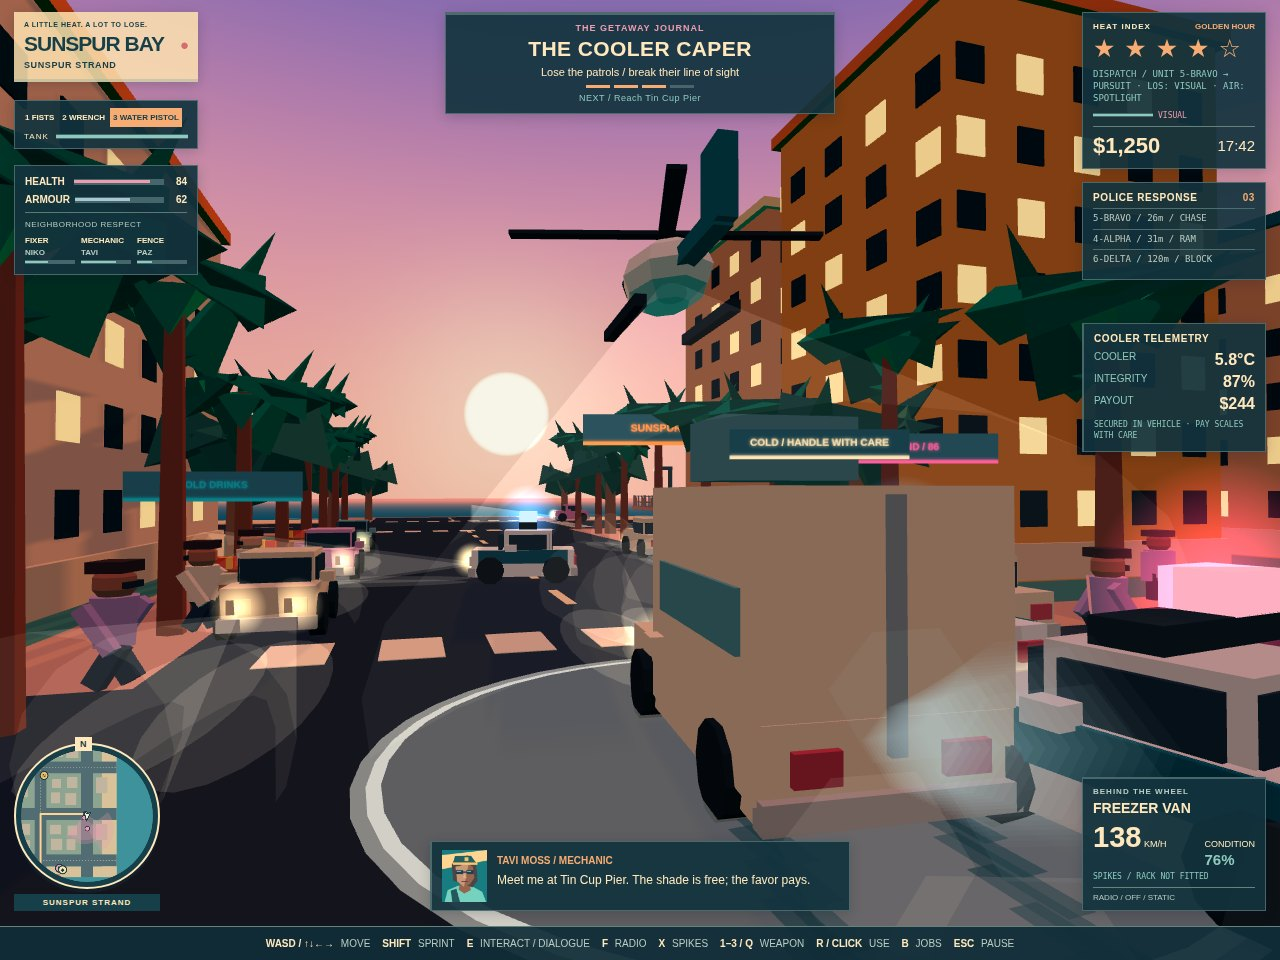
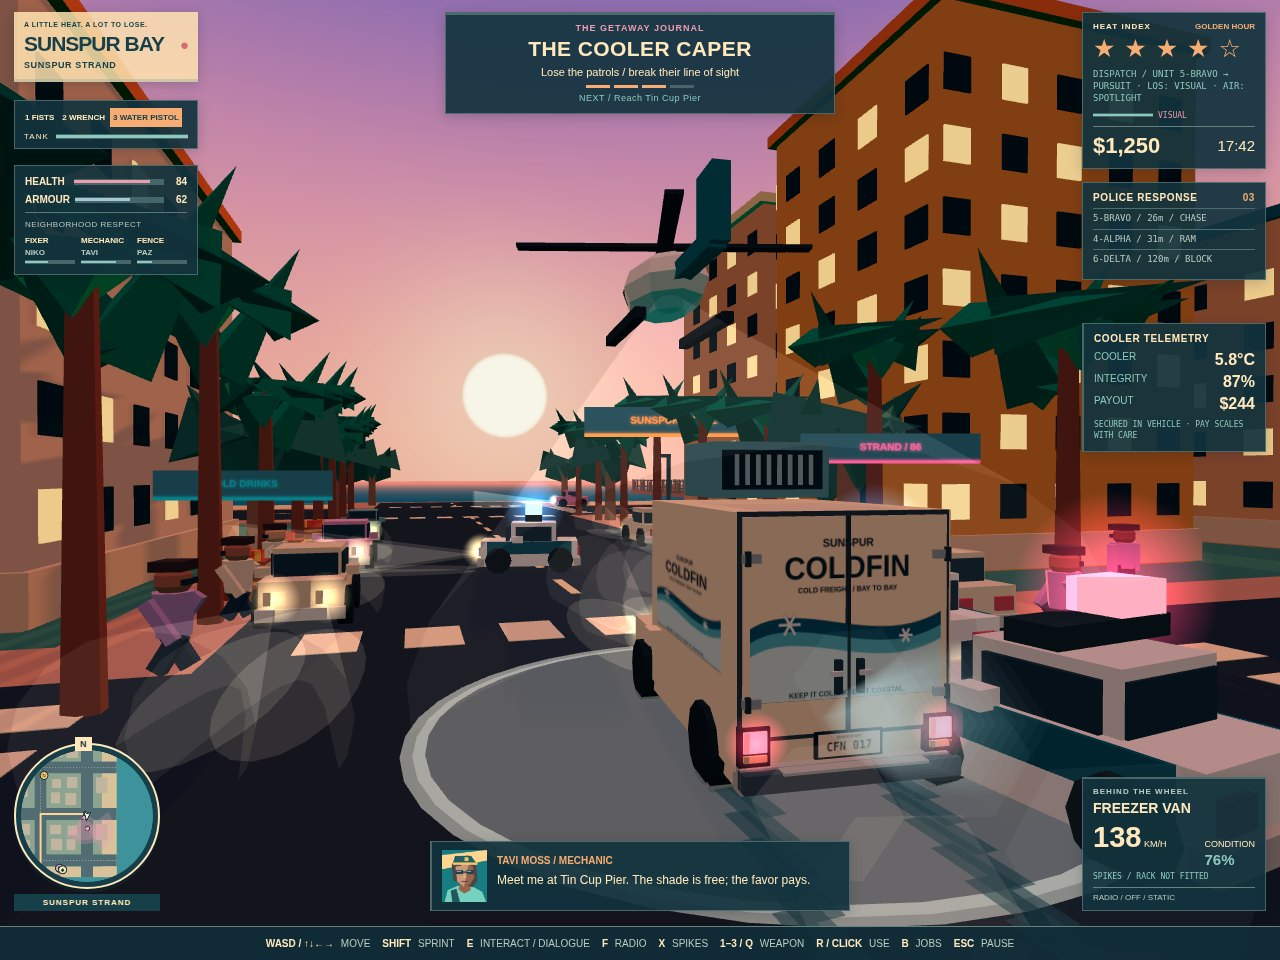
Detail the freezer van rear and restage the cover

diff --git a/game/src/vehicles.js b/game/src/vehicles.js
@@ -1,9 +1,9 @@
 // Scope: invented vehicle models, reusable car meshes and parked vehicle records.
 import * as THREE from '../vendor/three.min.js';
-import { box, material, label, bakeMeshes } from './city.js';
+import { box, material, luminous, bakeMeshes } from './city.js';
 import { STREETS, PALETTE } from './config.js';
 import { createRandom } from './random.js';
-import { headlightRig } from './effects.js';
+import { headlightRig, lightGlow } from './effects.js';
 
 export const MODELS = [
   { name: 'Sunspur Solace', length: 23, width: 12, height: 7, maxSpeed: 145 },
@@ -13,6 +13,69 @@ export const MODELS = [
 export const FREEZER_MODEL = { name: 'FREEZER VAN', modelName: 'Sunspur Coldfin', length: 34, width: 16, height: 17, maxSpeed: 112, freezer: true };
 const wheelGeometry = new THREE.CylinderGeometry(3.1, 3.1, 2.1, 10);
 const carColors = ['#ef927c', '#71b6b1', '#efd19a', '#e597b3', '#b0bba3', '#c1a7c4'];
+
+function dressFreezer(mesh, width, length) {
+  const detail = new THREE.Group(), decals = [];
+  detail.name = 'Coldfin doors and refrigeration';
+  const rear = -5 - length * 0.35;
+  function paint(canvas, x, y, z, w, h, angle) {
+    const texture = new THREE.CanvasTexture(canvas); texture.colorSpace = THREE.SRGBColorSpace;
+    const decal = new THREE.Mesh(new THREE.PlaneGeometry(w, h), new THREE.MeshLambertMaterial({ map: texture, transparent: true, depthWrite: false }));
+    decal.position.set(x, y, z); decal.rotation.y = angle;
+    detail.add(decal); decals.push(decal);
+  }
+  const livery = document.createElement('canvas'); livery.width = 768; livery.height = 640;
+  const ink = livery.getContext('2d');
+  ink.textAlign = 'center'; ink.fillStyle = '#214d59';
+  ink.font = 'bold 42px sans-serif'; ink.fillText('SUNSPUR', 384, 70);
+  ink.font = 'bold 114px sans-serif'; ink.fillText('COLDFIN', 384, 184, 710);
+  ink.font = 'bold 28px sans-serif'; ink.fillText('COLD FREIGHT / BAY TO BAY', 384, 234);
+  for (const [offset, color] of [[0, '#267b88'], [50, '#71c9c3'], [100, '#d4f2de']]) {
+    ink.fillStyle = color; ink.beginPath(); ink.moveTo(0, 355 + offset);
+    ink.bezierCurveTo(200, 245 + offset, 490, 455 + offset, 768, 320 + offset);
+    ink.lineTo(768, 520 + offset); ink.lineTo(0, 520 + offset); ink.fill();
+  }
+  ink.strokeStyle = '#eef8e4'; ink.lineWidth = 9;
+  for (const [x, y, radius] of [[152, 346, 42], [620, 404, 28]]) {
+    for (let i = 0; i < 6; i++) {
+      const angle = i * Math.PI / 3;
+      ink.beginPath(); ink.moveTo(x, y); ink.lineTo(x + Math.cos(angle) * radius, y + Math.sin(angle) * radius); ink.stroke();
+    }
+  }
+  ink.fillStyle = '#214d59'; ink.font = 'bold 28px sans-serif'; ink.fillText('KEEP IT COLD. KEEP IT COASTAL.', 384, 610);
+  box(detail, 0, 13, rear - 0.12, width + 0.4, 16, 0.24, '#46646a');
+  for (const side of [-1, 1]) {
+    box(detail, side * 4.05, 13, rear - 0.3, 7.7, 15.3, 0.22, '#f8e7bc');
+    for (const y of [7.8, 17.8]) {
+      box(detail, side * 7.35, y, rear - 0.58, 1.3, 0.65, 0.45, '#a5b8af');
+      box(detail, side * 7.7, y, rear - 0.83, 0.35, 1.05, 0.35, '#3a555d');
+    }
+    box(detail, side * 0.85, 9.3, rear - 0.62, 0.5, 2.4, 0.4, '#284d59');
+    box(detail, side * 1.1, 9.6, rear - 0.9, 0.9, 0.35, 0.3, '#d5ded0');
+    box(detail, side * 7.15, 4.8, rear - 0.35, 2.3, 2.7, 0.65, '#28434d');
+    const lamp = box(detail, side * 7.15, 5.2, rear - 0.75, 1.7, 1.45, 0.3, '#ef3651');
+    lamp.material = luminous('#ef3651', 1.8);
+    const glow = lightGlow('#ff3150', 4.5); glow.position.set(side * 7.15, 5.2, rear - 1); detail.add(glow);
+    box(detail, side * 7.15, 4.05, rear - 0.75, 1.7, 0.45, 0.3, '#f8d29b');
+    box(detail, side * (width / 2 - 0.6), 1.5, -length * 0.32 - 2, 3, 3, 0.5, '#243e48');
+    paint(livery, side * (width / 2 + 0.56), 13, -5, 19, 8, side * Math.PI / 2);
+  }
+  paint(livery, 0, 13.6, rear - 0.44, 14.8, 12.5, Math.PI);
+  box(detail, 0, 13, rear - 0.55, 0.16, 15.3, 0.2, '#3a555d');
+  box(detail, 0, 2.6, rear - 1, width + 0.5, 1.3, 1.3, '#59727a');
+  box(detail, 0, 3.25, rear - 1.15, 11, 0.2, 1.5, '#b9c9bb');
+  box(detail, 0, 4.5, rear - 0.45, 5.2, 1.9, 0.3, '#28434d');
+  const plate = document.createElement('canvas'); plate.width = 384; plate.height = 128;
+  const plateInk = plate.getContext('2d'); plateInk.fillStyle = '#fff1c9'; plateInk.fillRect(0, 0, 384, 128);
+  plateInk.fillStyle = '#234d5b'; plateInk.textAlign = 'center';
+  plateInk.font = 'bold 22px sans-serif'; plateInk.fillText('SUNSPUR BAY', 192, 28);
+  plateInk.font = 'bold 67px monospace'; plateInk.fillText('CFN 017', 192, 97);
+  paint(plate, 0, 4.5, rear - 0.63, 4.8, 1.6, Math.PI);
+  box(detail, 0, 24, -3.65, 9.4, 3.5, 0.4, '#284d59');
+  for (let x = -3.5; x <= 3.5; x++) box(detail, x, 24, -3.95, 0.35, 2.7, 0.3, '#a9cfc3');
+  for (const side of [-1, 1]) box(detail, side * 4.9, 24, 0.7, 0.35, 2.6, 6.8, '#d3e5ce');
+  bakeMeshes(detail, decals); mesh.add(detail);
+}
 
 export function createVehicle(scene, options = {}) {
   const model = options.model ?? MODELS[0];
@@ -28,7 +91,7 @@ export function createVehicle(scene, options = {}) {
     box(mesh, side * (w / 2 - 0.8), 9, -1, 0.5, 3.8, l * 0.37, '#365965');
     box(mesh, side * (w / 2 + 0.7), 8, l * 0.12, 2, 1.5, 2.5, color);
     box(mesh, side * w * 0.3, 5, l / 2 + 0.2, 3, 2, 0.7, '#ffeab6');
-    box(mesh, side * w * 0.3, 5, -l / 2 - 0.2, 3, 2, 0.7, '#d26569');
+    if (!model.freezer) box(mesh, side * w * 0.3, 5, -l / 2 - 0.2, 3, 2, 0.7, '#d26569');
   }
   box(mesh, 0, 2.5, l / 2, w + 0.5, 1.8, 1.5, '#c2c8b7');
   box(mesh, 0, 2.5, -l / 2, w + 0.5, 1.8, 1.5, '#c2c8b7');
@@ -42,10 +105,8 @@ export function createVehicle(scene, options = {}) {
   }
   if (model.freezer) {
     box(mesh, 0, 12, -5, w + 1, 18, l * 0.7, '#f8e7bc');
-    box(mesh, 0, 13, -l / 2 - 0.7, 1, 15, 0.6, '#a2bab1');
     box(mesh, 0, 24, 1, 11, 5, 9, '#78b7b1');
-    for (const side of [-1, 1]) box(mesh, side * (w / 2 + 0.6), 13, -6, 0.5, 4, 18, '#71b6b1');
-    label(mesh, 'COLD / HANDLE WITH CARE', 0, 24, -8, 38);
+    dressFreezer(mesh, w, l);
   }
   bakeMeshes(mesh);
   const headlights = headlightRig(w, l);

diff --git a/game/src/shots.js b/game/src/shots.js
@@ -92,7 +92,7 @@ export function stageShot(game) {
     neon('SUNSPUR MOTEL', 2380, 44, 1810, PALETTE.orange, 65);
     trails(van);
     game.dialogue.say(crowd.contacts[0], ['Meet me at Tin Cup Pier. The shade is free; the favor pays.']);
-    view(2468, 22, 1566, 2433, 24, 1680);
+    view(2471, 25, 1557, 2433, 24, 1680);
   }
   if (shot === 'market') {
     city.setTimeOfDay('midday'); state.clockMinutes = 745;

diff --git a/VERIFICATION.md b/VERIFICATION.md
@@ -111,3 +111,24 @@ Two subsequent `MAKEFUN_OUTPUT_DIR=out node main.ts` runs each produced 29 files
 `vendor/makefun-game.ts` is byte-identical to starter commit `f4a0377`; `game/vendor/three.min.js` is byte-identical to the starting HEAD, `546d9b4`. Their SHA-256 values remain the ones recorded above. The existing authored capture line in `main.ts` and the factual scope header in `game/src/main.js` remain intact. README changes are confined to its staging/capture section; its badges, referral code, systems, jobs and controls match the starting commit. The deterministic gameplay suite passed before recapture.
 
 The final browser run used ordinary free play at `/?seed=17`, with `staged === false`. Real keyboard and menu input entered Juno's Solace, accelerated to a displayed 21 KM/H, tuned SUNSPUR FM, restarted the day, walked 5.1 world units, opened the six-job board and paused/resumed. Its initial load made 24 local requests. After that load, the entire interaction run made zero requests; external requests, console errors, failed requests, HTTP error responses and warnings were also zero. This pass performed no submission or recording completion.
+
+## Coldfin rear detail / 2026-11-18
+
+This pass replaces the cover image from the preceding recapture. The van now has bordered split rear doors, hinges, handles, glowing red lamps, a bumper, mudflaps and a `CFN 017` plate. Canvas paint carries the existing Sunspur Coldfin name, coastal waves and frost marks on the rear and sides. The existing roof cooler has a rear grille and side ribs. Vehicle dimensions, collision data and driving rules retain their previous values.
+
+Only the cover camera moved: three units sideways, three higher and nine farther back. The seed-17 cover still settles at frame 90, with the 138 KM/H vehicle card, three police units, helicopter searchlight, sunset, Tavi portrait dialogue and every HUD panel inside the viewport.
+
+Playwright MCP captured the cover directly from `?shot=cover&seed=17` at 1280 × 960, device scale 1 and JPEG quality 86. The saved file was opened and inspected: the doors, livery, hardware, lamps, cooler grille and plate are visible. It contains a single browser render without image editing or recompression. The other three saved images were opened too; none presents the freezer van prominently, including the causeway's pink Solace chase, so those files remain byte-identical to `c7f791f`.
+
+| Current screenshot | Bytes | This pass |
+| --- | ---: | --- |
+| 01-bailout-cover.jpg | 204318 | Re-captured and viewed |
+| 02-market-mission.jpg | 163229 | Viewed; retained |
+| 03-garage-upgrades.jpg | 183342 | Viewed; retained |
+| 04-causeway-chase.jpg | 189312 | Viewed; retained |
+
+On-disk inspection confirms exactly these four JPEGs, each 1280 × 960 and below 262144 bytes. The route mappings are unchanged.
+
[1 lines of base64/hex data omitted]
+
+The gameplay suite and whitespace check pass. A fresh ordinary free-play run entered the Solace with E, accelerated with W and selected SUNSPUR FM with F. It reported `staged === false`, zero console errors, failed requests, HTTP errors or external requests. Loading required 24 local resources; subsequent play and pause made zero requests. The cover's first browser load emitted four GPU ReadPixels performance warnings; the final free-play console was clear. No submission or recording action was taken.
